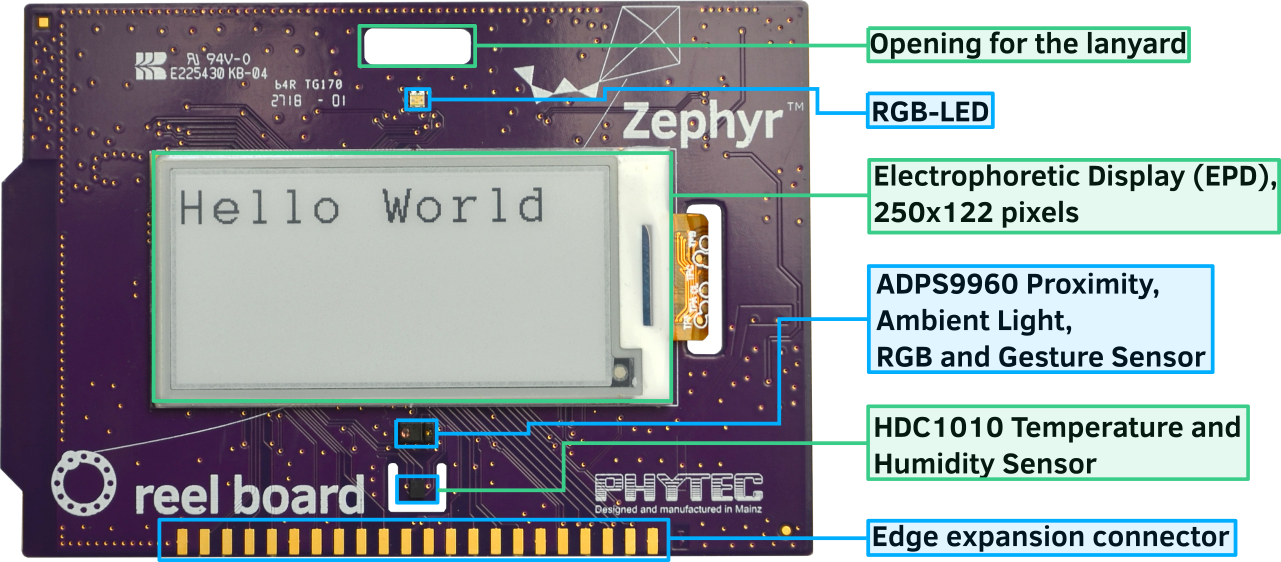
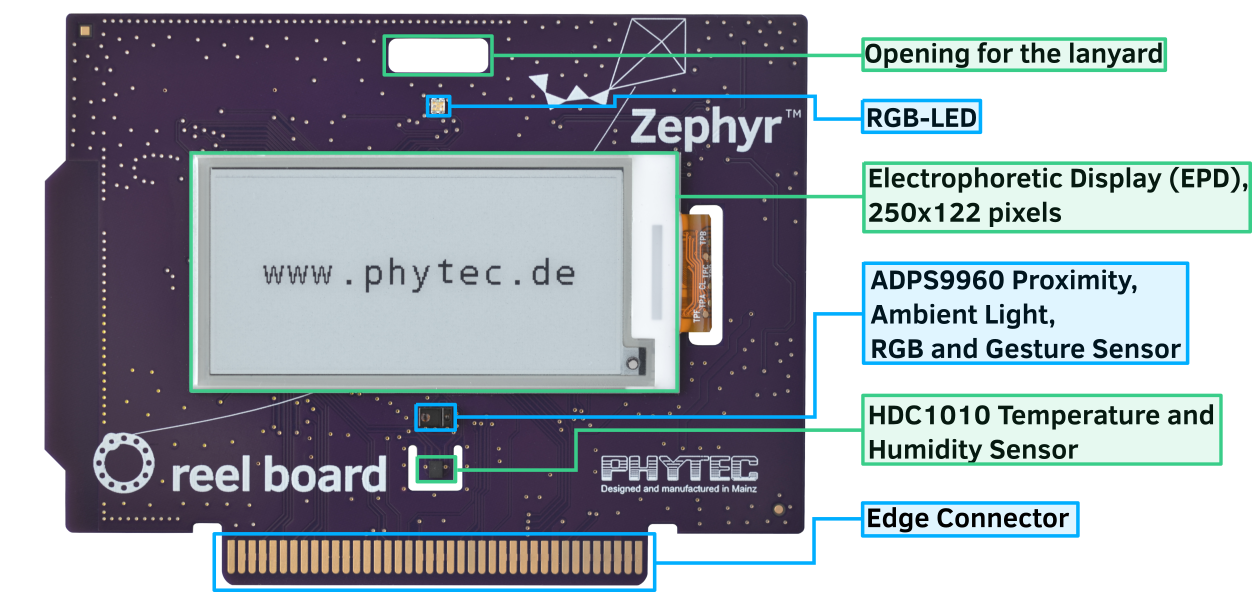
boards: reel_board: update docu for the first board release
Update images and connection tables for the first board release.

diff --git a/boards/arm/reel_board/doc/reel_board.rst b/boards/arm/reel_board/doc/reel_board.rst
@@ -40,11 +40,11 @@ Display is controlled by the nRF52840 via SPI and 3 GPIOs.
 
 On the back side of the board are all other components such as nRF52840,
 circuit for the Debug Adapter, On/Off and power source switch, battery holder,
-buttons and MMA8652 (accelerometer) sensor.
+buttons and MMA8652FC (accelerometer) sensor.
 
 ADPS9960 is Digital Proximity, Ambient Light, RGB and Gesture sensor.
 HDC1010 is a digital humidity and temperature sensor.
-MMA8652 is a 12-bit Digital Accelerometer.
+MMA8652FC is a 12-bit Digital Accelerometer.
 All sensors are connected to the I2C bus and one GPIO pin each,
 which can be used as an interrupt source.
 
@@ -110,7 +110,7 @@ hardware features:
 +-----------+------------+----------------------+
 | RADIO     | on-chip    | Bluetooth            |
 +-----------+------------+----------------------+
-| SENSOR    | off-chip   | MMA8652 polling:     |
+| SENSOR    | off-chip   | MMA8652FC polling:   |
 |           |            | ADPS9960 polling:    |
 |           |            | HDC1010 polling      |
 +-----------+------------+----------------------+
@@ -126,27 +126,27 @@ Port P0
 +-------+-----------------------+---------------------------+
 | Name  | Function              | Usage                     |
 +=======+=======================+===========================+
-| P0.0  | XL1                   | 32.768 kHz oscillator     |
+| P0.00 | XL1                   | 32.768 kHz oscillator     |
 +-------+-----------------------+---------------------------+
-| P0.1  | XL2                   | 32.768 kHz oscillator     |
+| P0.01 | XL2                   | 32.768 kHz oscillator     |
 +-------+-----------------------+---------------------------+
-| P0.2  | edge connector pin 25 | None                      |
+| P0.02 | edge connector pin 30 | None                      |
 +-------+-----------------------+---------------------------+
-| P0.3  | edge connector pin 27 | None                      |
+| P0.03 | edge connector pin 31 | None                      |
 +-------+-----------------------+---------------------------+
-| P0.4  | edge connector pin 29 | None                      |
+| P0.04 | edge connector pin 19 | None                      |
 +-------+-----------------------+---------------------------+
-| P0.5  | edge connector pin 31 | None                      |
+| P0.05 | edge connector pin 11 | None                      |
 +-------+-----------------------+---------------------------+
-| P0.6  | UART0_TX              | UART Console over USB     |
+| P0.06 | UART0_TX              | UART Console over USB     |
 +-------+-----------------------+---------------------------+
-| P0.7  | Button                | user button (S5)          |
+| P0.07 | Button                | user button (S5)          |
 +-------+-----------------------+---------------------------+
-| P0.8  | UART0_RX              | UART Console over USB     |
+| P0.08 | UART0_RX              | UART Console over USB     |
 +-------+-----------------------+---------------------------+
-| P0.9  | edge connector pin 42 | None                      |
+| P0.09 | edge connector pin 27 | None                      |
 +-------+-----------------------+---------------------------+
-| P0.10 | edge connector pin 40 | None                      |
+| P0.10 | edge connector pin 29 | None                      |
 +-------+-----------------------+---------------------------+
 | P0.11 | RGB LED (red)         | GPIO                      |
 +-------+-----------------------+---------------------------+
@@ -174,21 +174,21 @@ Port P0
 +-------+-----------------------+---------------------------+
 | P0.23 | APDS9960 INT          | GPIO                      |
 +-------+-----------------------+---------------------------+
-| P0.24 | MMA8652 INT1          | GPIO                      |
+| P0.24 | MMA8652FC INT1        | GPIO                      |
 +-------+-----------------------+---------------------------+
-| P0.25 | reserved              | None                      |
+| P0.25 | MMA8652FC INT2        | GPIO                      |
 +-------+-----------------------+---------------------------+
 | P0.26 | I2C_0                 | I2C                       |
 +-------+-----------------------+---------------------------+
 | P0.27 | I2C_0                 | I2C                       |
 +-------+-----------------------+---------------------------+
-| P0.28 | edge connector pin 35 | None                      |
+| P0.28 | edge connector pin 3  | None                      |
 +-------+-----------------------+---------------------------+
-| P0.29 | edge connector pin 37 | None                      |
+| P0.29 | edge connector pin 52 | None                      |
 +-------+-----------------------+---------------------------+
-| P0.30 | edge connector pin 39 | None                      |
+| P0.30 | edge connector pin 1  | None                      |
 +-------+-----------------------+---------------------------+
-| P0.31 | edge connector pin 41 | None                      |
+| P0.31 | edge connector pin 37 | None                      |
 +-------+-----------------------+---------------------------+
 
 Port P1
@@ -197,37 +197,37 @@ Port P1
 +-------+-----------------------+---------------------------+
 | Name  | Function              | Usage                     |
 +=======+=======================+===========================+
-| P1.0  | peripheral power on   | GPIO                      |
+| P1.00 | peripheral power on   | GPIO                      |
 +-------+-----------------------+---------------------------+
-| P1.1  | edge connector pin 38 | None                      |
+| P1.01 | edge connector pin 32 | None                      |
 +-------+-----------------------+---------------------------+
-| P1.2  | edge connector pin 36 | None                      |
+| P1.02 | edge connector pin 34 | None                      |
 +-------+-----------------------+---------------------------+
-| P1.3  | edge connector pin 32 | None                      |
+| P1.03 | edge connector pin 17 | None                      |
 +-------+-----------------------+---------------------------+
-| P1.4  | edge connector pin 30 | None                      |
+| P1.04 | edge connector pin 15 | None                      |
 +-------+-----------------------+---------------------------+
-| P1.5  | edge connector pin 28 | None                      |
+| P1.05 | edge connector pin 13 | None                      |
 +-------+-----------------------+---------------------------+
-| P1.6  | edge connector pin 26 | None                      |
+| P1.06 | edge connector pin 33 | None                      |
 +-------+-----------------------+---------------------------+
-| P1.7  | edge connector pin 20 | None                      |
+| P1.07 | edge connector pin 35 | None                      |
 +-------+-----------------------+---------------------------+
-| P1.8  | edge connector pin 18 | None                      |
+| P1.08 | edge connector pin 45 | None                      |
 +-------+-----------------------+---------------------------+
-| P1.9  | RGB LED (blue)        | GPIO                      |
+| P1.09 | RGB LED (blue)        | GPIO                      |
 +-------+-----------------------+---------------------------+
-| P1.10 | edge connector pin 16 | None                      |
+| P1.10 | edge connector pin 47 | None                      |
 +-------+-----------------------+---------------------------+
-| P1.11 | edge connector pin 14 | None                      |
+| P1.11 | edge connector pin 49 | None                      |
 +-------+-----------------------+---------------------------+
-| P1.12 | edge connector pin 10 | None                      |
+| P1.12 | edge connector pin 51 | None                      |
 +-------+-----------------------+---------------------------+
-| P1.13 | edge connector pin 8  | None                      |
+| P1.13 | edge connector pin 36 | None                      |
 +-------+-----------------------+---------------------------+
-| P1.14 | edge connector pin 6  | None                      |
+| P1.14 | edge connector pin 48 | None                      |
 +-------+-----------------------+---------------------------+
-| P1.15 | edge connector pin 4  | None                      |
+| P1.15 | edge connector pin 50 | None                      |
 +-------+-----------------------+---------------------------+
 
 Edge Connector
@@ -264,7 +264,9 @@ I2C bus and sensors testpoints
 +-------+-----------------------+---------------------------+
 | J20   | closed solder jumper  | testpoint I2C SCL         |
 +-------+-----------------------+---------------------------+
-| J7    | closed solder jumper  | testpoint INT1 MMA8652    |
+| J7    | closed solder jumper  | testpoint INT1 MMA8652FC  |
++-------+-----------------------+---------------------------+
+| J24   | closed solder jumper  | testpoint INT2 MMA8652FC  |
 +-------+-----------------------+---------------------------+
 | J11   | closed solder jumper  | testpoint INT APDS9960    |
 +-------+-----------------------+---------------------------+
